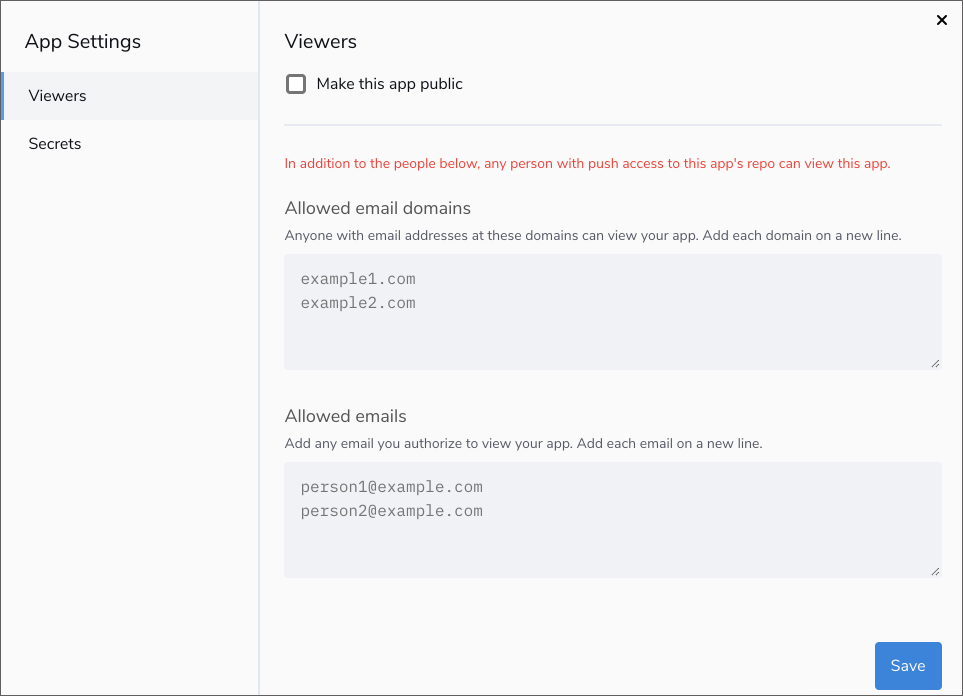
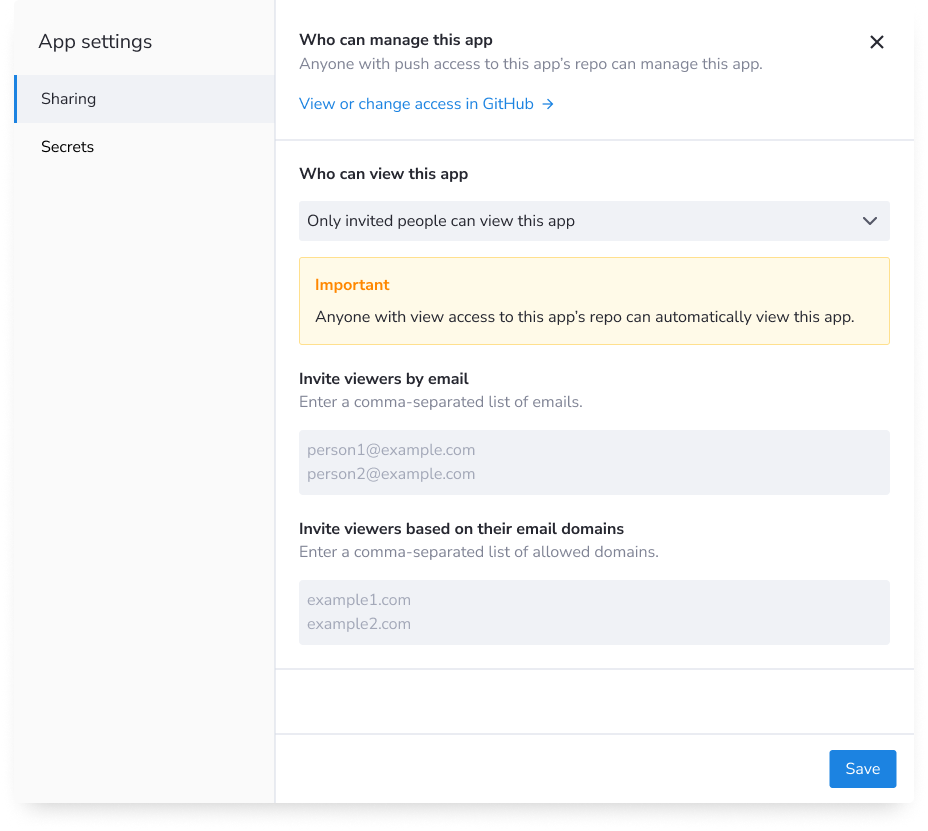
Expand on sign-in flows

diff --git a/content/streamlit-cloud/get-started/index.md b/content/streamlit-cloud/get-started/index.md
@@ -31,17 +31,17 @@ Getting your workspace set up with Streamlit Cloud only takes a few minutes.
 
 ## Sign up for Streamlit Cloud
 
-Streamlit Cloud offers packages to fit whatever team size and workspace needs you have. To view different packages go to the [Streamlit Cloud homepage](http://streamlit.io/cloud).
+Streamlit Cloud offers packages to fit whatever team size and workspace needs you have. To view different packages go to the [Streamlit Cloud homepage](https://streamlit.io/cloud).
 
-Once you've selected a package, login to [share.streamlit.io](http://share.streamlit.io) and follow the steps below.
+Once you've selected a package, login to [share.streamlit.io](https://share.streamlit.io) and follow the steps below.
 
 ## Log in to share.streamlit.io
 
 You can login to Streamlit Cloud with:
 
-1. Google
-2. GitHub
-3. Email based sign-in link: These are single-use links that are valid for up to 15 minutes.
+1. [Google](#sign-in-with-google)
+2. [GitHub](#sign-in-with-github)
+3. [Email](#sign-in-with-email) based sign-in link: These are single-use links that are valid for up to 15 minutes.
 
 If you're a developer, we recommend starting with GitHub the first time you login. You can later setup your account to login using Google or an [SSO provider](/streamlit-cloud/get-started/share-your-app/configuring-single-on-sso).
 
@@ -56,6 +56,28 @@ If you're sharing your app, your app's users can use any of the above methods to
 Streamlit Cloud offers support for all other single sign-on (SSO) providers, but you will need to be on an [Enterprise plan](https://forms.streamlit.io/cloud-sign-up) to connect SSO.
 
 </Note>
+
+### Sign in with Google
+
+Visit [share.streamlit.io](https://share.streamlit.io) and click the "Continue with Google" button. Next, choose an account to sign in with.
+
+<Image alt="Google sign in" src="/images/streamlit-cloud/google-signin-1.png" />
+
+### Sign in with GitHub
+
+Visit [share.streamlit.io](https://share.streamlit.io) and click the "Continue with GitHub" button. Next, enter your GitHub credentials to sign in.
+
+<Image alt="GitHub sign in" src="/images/streamlit-cloud/github-signin-1.png" />
+
+### Sign in with Email
+
+If you don't have SSO, you can sign in with your email address! Visit [share.streamlit.io](https://share.streamlit.io), enter the email address you used to sign up for Streamlit Cloud, and click the "Continue with email" button. You will see a confirmation message asking you to check your email.
+
+<Image alt="Email sign in" src="/images/streamlit-cloud/email-signin-1.png" />
+
+Check your inbox for an email from Streamlit, with the subject "Sign in to Streamlit Cloud". Click the link in the email to sign in to Streamlit. Note that this link will expire in 15 minutes and can only be used once.
+
+<Image alt="Sign in Email" src="/images/streamlit-cloud/email-signin-2.png" />
 
 ## Connect your GitHub account
 

diff --git a/content/kb/deployments/share-apps-with-viewers-outside-organization.md b/content/kb/deployments/share-apps-with-viewers-outside-organization.md
@@ -1,0 +1,49 @@
+---
+title: How do I share apps with viewers outside my organization?
+slug: /knowledge-base/deploy/share-apps-with-viewers-outside-organization
+---
+
+# How do I share apps with viewers outside my organization?
+
+Viewer auth allows you to restrict the viewers of your app. To access your app, users have to authenticate using an email-based passwordless login or [single sign-on (SSO)](/streamlit-cloud/get-started/share-your-app/configuring-single-on-sso). You can share your app with viewers outside your organization in two ways:
+
+- [Adding viewers from the app](#adding-viewers-from-the-app)
+- [Adding viewers from your dashboard](#adding-viewers-from-your-dashboard)
+
+## Adding viewers from the app
+
+From your deployed app you can easily add viewers from your developer console.
+
+1. **Select "Manage app" in the lower right corner.**
+<div style={{ maxWidth: '45%', marginBottom: '-3em', marginLeft: '10em' }}>
+    <Image src="/images/streamlit-cloud/manage-app.png" />
+</div>
+2. **Choose "Settings" from the menu.**
+<div style={{ maxWidth: '45%', marginBottom: '-3em', marginLeft: '10em' }}>
+    <Image src="/images/streamlit-cloud/settings-menu.png" />
+</div>
+3. **Add Viewers in Settings.**
+
+   You can choose to allow anyone from a domain, for example allowing "foo.corp" would allow anyone with an email from foo.corp. Or you can choose to allow only selected viewers based on their individual emails. Make sure to enter them as a line-separated list.
+
+   ![Add viewers](/images/streamlit-cloud/add-viewers.png)
+
+## Adding viewers from your dashboard
+
+You can also add viewers directly from your dashboard.
+
+1. **Open settings for your app**
+
+   Navigate to the app you want to add viewer to and click the hamburger icon to select "Settings."
+
+   <div style={{ maxWidth: '75%', marginBottom: '-3em', marginLeft: '5em' }}>
+       <Image src="/images/streamlit-cloud/edit-secrets.png" />
+   </div>
+
+2. **Add Viewers in Settings**
+
+   Click on the "Sharing" section in the App Settings and in the text input area, provide a line-separated list of email addresses for the users you wish to grant viewer access to your app, or provide a line-separated list of allowed email address domains. Click "Save."
+
+   <div style={{ maxWidth: '75%', marginBottom: '-3em', marginLeft: '5em' }}>
+       <Image src="/images/streamlit-cloud/add-viewers.png" />
+   </div>

diff --git a/content/kb/deployments/index.md b/content/kb/deployments/index.md
@@ -13,6 +13,8 @@ slug: /knowledge-base/deploy
 - [Argh. This app has gone over its resource limits.](/knowledge-base/deploy/resource-limits)
 - [App is not loading when running remotely](/knowledge-base/deploy/remote-start)
 - [Authentication without SSO](/knowledge-base/deploy/authentication-without-sso)
+- [I don't have SSO. How do I sign in to Streamlit Cloud?](/knowledge-base/deploy/sign-in-without-sso)
+- [How do I share apps with viewers outside my organization?](/knowledge-base/deploy/share-apps-with-viewers-outside-organization)
 - [Upgrade the Streamlit version of your app on Streamlit Cloud](/knowledge-base/deploy/upgrade-streamlit-version-on-streamlit-cloud)
 - [Organizing your apps with workspaces on Streamlit Cloud](/knowledge-base/deploy/organizing-apps-workspaces-streamlit-cloud)
 - [How do I increase the upload limit of `st.file_uploader` on Streamlit Cloud?](/knowledge-base/deploy/increase-file-uploader-limit-streamlit-cloud)

diff --git a/content/kb/deployments/sign-in-email.md b/content/kb/deployments/sign-in-email.md
@@ -1,0 +1,14 @@
+---
+title: I don't have SSO. How do I sign in to Streamlit Cloud?
+slug: /knowledge-base/deploy/sign-in-without-sso
+---
+
+# I don't have SSO. How do I sign in to Streamlit Cloud?
+
+If you don't have SSO, you can sign in with your email address! Visit [share.streamlit.io](https://share.streamlit.io), enter the email address you used to sign up for Streamlit Cloud, and click the "Continue with email" button. You will see a confirmation message asking you to check your email.
+
+<Image alt="Email sign in" src="/images/streamlit-cloud/email-signin-1.png" />
+
+Check your inbox for an email from Streamlit, with the subject "Sign in to Streamlit Cloud". Click the link in the email to sign in to Streamlit. Note that this link will expire in 15 minutes and can only be used once.
+
+<Image alt="Sign in Email" src="/images/streamlit-cloud/email-signin-2.png" />

diff --git a/content/streamlit-cloud/get-started/share-your-app/index.md b/content/streamlit-cloud/get-started/share-your-app/index.md
@@ -71,7 +71,7 @@ You can also add viewers directly from your dashboard.
 
 2. **Add Viewers in Settings**
 
-   Click on the "Viewers" section in the App Settings and in the text input area, provide a line-separated list of email addresses for the users you wish to grant viewer access to your app, or provide a line-separated list of allowed email address domains. Click "Save."
+   Click on the "Sharing" section in the App Settings and in the text input area, provide a line-separated list of email addresses for the users you wish to grant viewer access to your app, or provide a line-separated list of allowed email address domains. Click "Save."
 
    <div style={{ maxWidth: '75%', marginBottom: '-3em', marginLeft: '5em' }}>
        <Image src="/images/streamlit-cloud/add-viewers.png" />

diff --git a/content/streamlit-cloud/troubleshooting.md b/content/streamlit-cloud/troubleshooting.md
@@ -76,6 +76,10 @@ We are working on this in Q4 of 2021. Check back soon for more information!
 
 ## Sharing and accessing apps
 
+### I don't have SSO. How do I sign in to Streamlit?
+
+Don't have SSO? No problem! You can sign in to Streamlit with your email address. [Click here](/streamlit-cloud/get-started#sign-in-with-email) for step-by-step instructions on how to sign in with email.
+
 ### How do I add developers to my Streamlit for Teams account?
 
 If you are on the same GitHub repo then you will automatically be added to the same workspace. Just invite them to log in to [share.streamlit.io](http://share.streamlit.io) and we will automatically route them to your workspace once they hook in their GitHub account.
